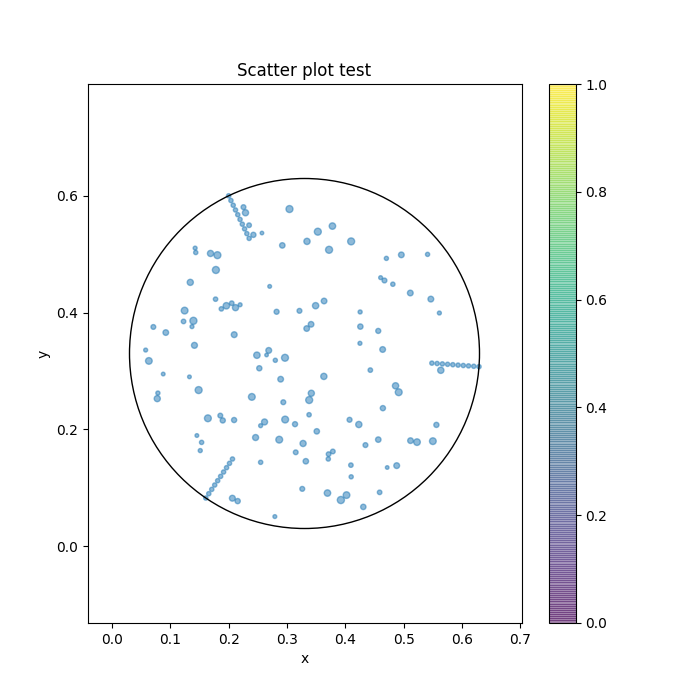
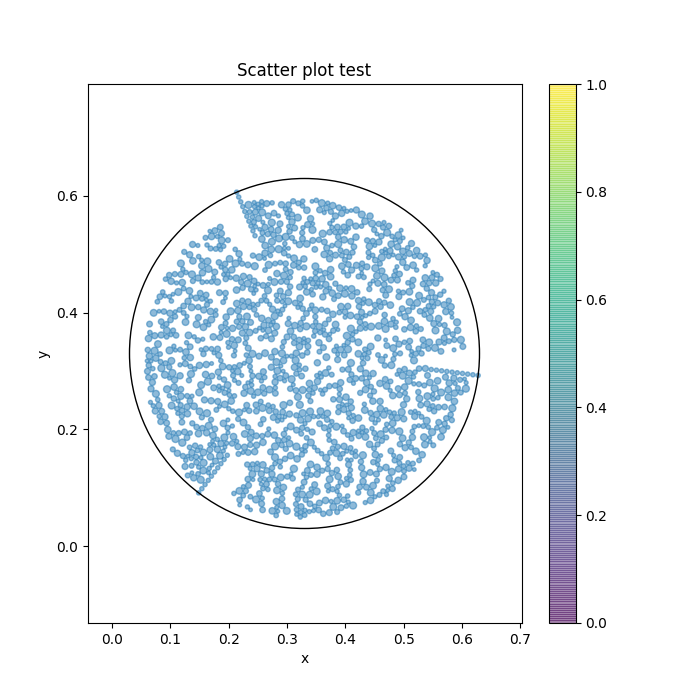
wip

Changed region(s): [[0.21, 0.27, 0.69, 0.75]]

diff --git a/main.cpp b/main.cpp
@@ -33,7 +33,7 @@ int main(int argc, char **argv) {
     // VIDEO OPTIONS
     int fps = 25;
     double tStartCapture = 0.;
-    double totalTime = 10;
+    double totalTime = 20;
     int totalFrames = (int) ((totalTime - tStartCapture) * fps);
     double recTime;
     double dt = 10. * 0.000001;
@@ -47,7 +47,7 @@ int main(int argc, char **argv) {
     double paletteRelativeWidth = .3;
     double paletteGrainRadius = 0.004;
 
-    int numberOfGrains = 120;
+    int numberOfGrains = 1400;
     int numberOfGrainsWithPalettes = numberOfGrains + (totalPalettesGrains);
     double radius = 0.005;
     double mass;
@@ -63,7 +63,7 @@ int main(int argc, char **argv) {
 
     //container
     double containerRadius = .3;
-    double containerOmega =  .2*M_PI;
+    double containerOmega =  M_PI;
 //    containerOmega = 0.;
     Vector2 containerCenter(containerRadius*1.1);
     Container container(containerRadius, containerCenter, containerOmega);

diff --git a/visualizeData.py b/visualizeData.py
@@ -12,12 +12,12 @@ writer = animation.FFMpegWriter(fps=25, metadata=dict(artist='Lucas H'), bitrate
 fig = plt.figure(figsize=(7, 7))
 
 # this counts the number of frames
-path = os.path.join("out","x64-Release","datas")
+path = os.path.join("cmake-build-debug","datas")
 num_files = len([f for f in os.listdir(path) if os.path.isfile(os.path.join(path, f))])
 print(num_files)
 totalFrames = num_files - 1
 for i in range(0, totalFrames):
-    fileName = path + "grain" + str(i) + ".txt"
+    fileName = os.path.join(path,"grain" + str(i) + ".txt")
     data.insert(i, np.genfromtxt(fileName,
                                  delimiter=',',
                                  dtype=types,
